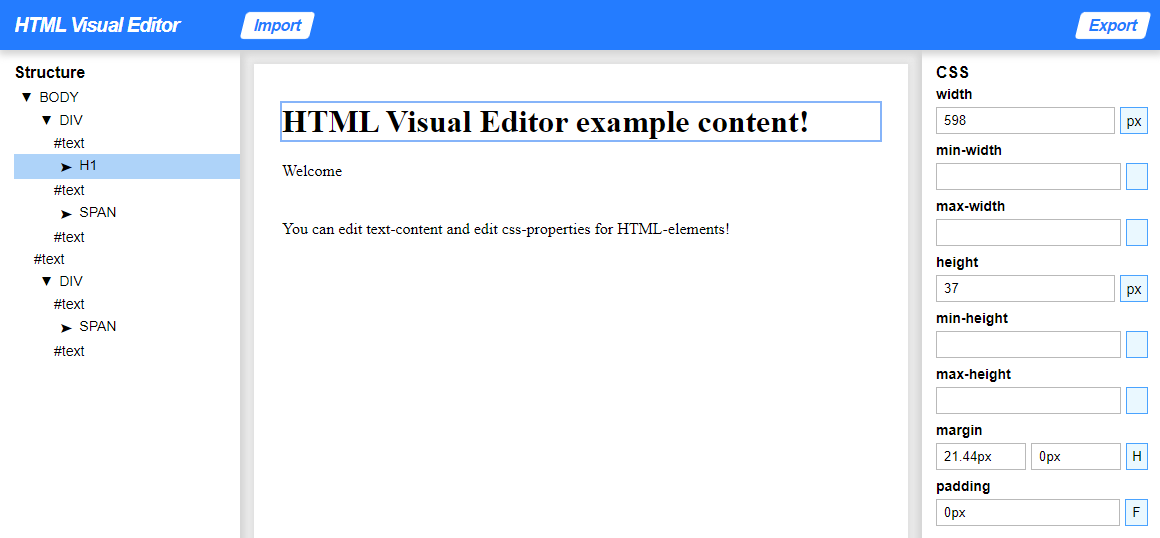
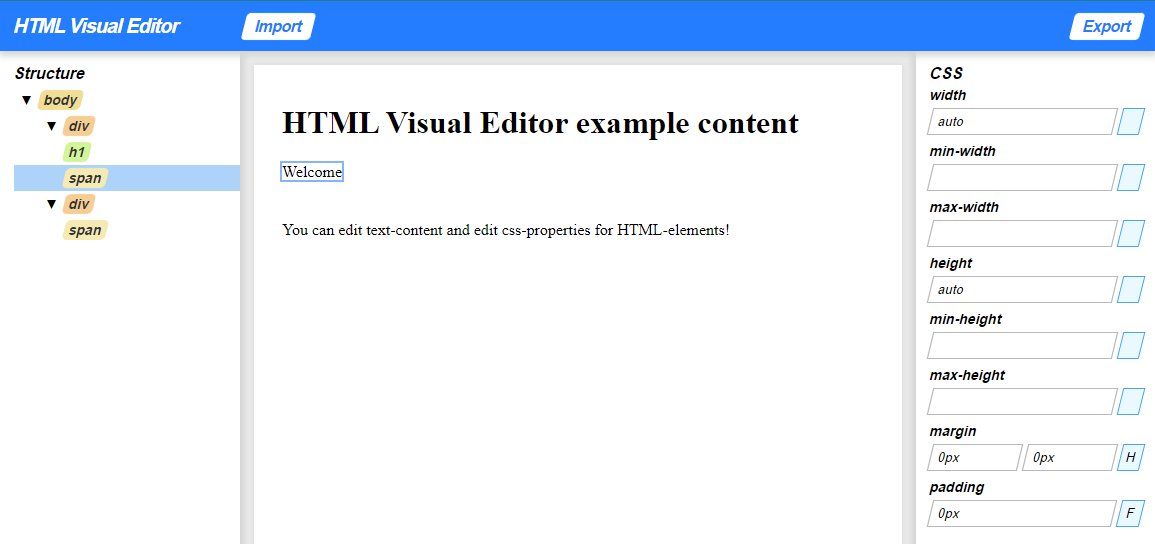
UI improvements

diff --git a/src/editor/components/columns/hier-view/hier/HierItem.tsx b/src/editor/components/columns/hier-view/hier/HierItem.tsx
@@ -3,9 +3,11 @@ import { Wrapper } from "./Wrapper";
 import { observer } from "mobx-react";
 import { TreeItem } from "../../../../stores/HierStore/HTMLTree";
 import { EditorContext } from "../../../../EditorContext/EditorContext";
-import { Name } from "../Name";
+import { Name, NameWrapper } from "../Name";
 import { CollapseButton } from "./CollapseButton";
 import { action } from "mobx";
+import { generateHSLInDiapason } from "../../../ui/utils/color/generateHSL";
+import { NodeNameRandomColor } from "../../../ui/utils/color/NodeNameRandomColor";
 
 
 type HierItemProps = {
@@ -35,25 +37,29 @@ export const HierItem: FC<HierItemProps> = observer(({item, setRef}) => {
     selectedStore.selectItem(item);
   }, []);
 
+  const hsl = NodeNameRandomColor.get(item.nodeName);
+
   return (
     <Wrapper ref={ref => setRef(ref, item)}>
-      <Name level={item.level}
-            hovered={item.node === selectedStore.hoveredItem?.node}
-            onClick={onNameClick}
-            selected={item.node === selectedStore.selectedItem?.node}
-            onMouseEnter={onMouseEnter}
-            onMouseLeave={onMouseLeave}
-            title={item.name}
+      <NameWrapper level={item.level}
+                   hovered={item.node === selectedStore.hoveredItem?.node}
+                   onClick={onNameClick}
+                   selected={item.node === selectedStore.selectedItem?.node}
+                   onMouseEnter={onMouseEnter}
+                   onMouseLeave={onMouseLeave}
+                   title={item.name}
       >
         {!!item.childs.length && (
           <CollapseButton collapsed={item.collapsed}
                           onClick={toggleCollapse}
           />
         )}
-        <span className={"hier-item-name"}>
+        <Name className={"hier-item-name"}
+              hsl={hsl}
+        >
           {item.name}
-        </span>
-      </Name>
+        </Name>
+      </NameWrapper>
       {!item.collapsed && item.childs.map((item, index) => {
         return (
           <HierItem item={item}

diff --git a/src/editor/components/columns/hier-view/Name.tsx b/src/editor/components/columns/hier-view/Name.tsx
@@ -5,10 +5,15 @@ const getBgColor = (p: {selected: boolean, hovered: boolean}): string => {
   return p.selected ? "#aed3f9" : p.hovered ? "#cae4ff" : "transparent";
 };
 
-export const Name = styled.div<{level: number, selected: boolean, hovered: boolean}>`
-  //width: 100%;
+type NameProps = {
+  level: number,
+  selected: boolean,
+  hovered: boolean,
+};
+
+export const NameWrapper = styled.div<NameProps>`
   background-color: ${getBgColor};
-  padding: 3px 0 3px calc(20px * ${p => p.level});
+  padding: 3px 0 3px calc(25px * ${p => p.level});
   white-space: nowrap;
   display: inline-flex;
   width: 100%;
@@ -16,4 +21,14 @@ export const Name = styled.div<{level: number, selected: boolean, hovered: boole
   &:hover {
     background-color: #cae4ff;
   }
+`;
+
+export const Name = styled.span<{hsl: string}>`
+  transform: skewX(-14deg);
+  background-color: hsl(${p => p.hsl});
+  text-transform: lowercase;
+  color: #333333;
+  font-weight: bold;
+  padding: 2px 5px;
+  border-radius: 5px;
 `;

diff --git a/src/editor/stores/HierStore/HTMLTree.ts b/src/editor/stores/HierStore/HTMLTree.ts
@@ -5,7 +5,8 @@ export type TreeItem = {
   node: Node;
   parent: Node;
   parentItem: TreeItem | null;
-  name?: string;
+  name: string;
+  nodeName: string;
   childs?: TreeItem[];
   collapsed: boolean;
   level: number;
@@ -32,7 +33,7 @@ export class HTMLTree {
       this.tree.parentItem = null;
     });
 
-    const walker = document.createTreeWalker(body, NodeFilter.SHOW_ALL);
+    const walker = document.createTreeWalker(body, NodeFilter.FILTER_ACCEPT);
     let nextNode = walker.nextNode();
 
     while (nextNode !== null) {
@@ -54,6 +55,7 @@ export class HTMLTree {
       node: node,
       parent: node.parentNode,
       name: node.nodeName,
+      nodeName: node.nodeName,
       childs: [],
       collapsed: true,
       level: this.getNodeLevel(node),

diff --git a/src/editor/stores/CanvasStore/CanvasStore.ts b/src/editor/stores/CanvasStore/CanvasStore.ts
@@ -101,7 +101,7 @@ export class CanvasStore {
 
   onMouseOver(e: MouseEvent) {
     const item = this.editorStore.hierStore.tree.nodeToItemMap.get(e.target as Node);
-    this.editorStore.selectedStore.hoverItem(item);
+    item && this.editorStore.selectedStore.hoverItem(item);
   }
 
   onMouseOut(e: MouseEvent) {
@@ -112,7 +112,7 @@ export class CanvasStore {
     e.stopPropagation();
     this.editorStore.selectedStore.unselect();
     const item = this.editorStore.hierStore.tree.nodeToItemMap.get(e.target as Node);
-    this.editorStore.selectedStore.selectItem(item);
+    item && this.editorStore.selectedStore.selectItem(item);
   }
 
   setHTMLIntoBody(html: string): Promise<void> {

diff --git a/src/examples/example.html b/src/examples/example.html
@@ -1,3 +1,13 @@
+<!doctype html>
+<html lang="en">
+<head>
+  <meta charset="UTF-8">
+  <meta name="viewport"
+        content="width=device-width, user-scalable=no, initial-scale=1.0, maximum-scale=1.0, minimum-scale=1.0">
+  <meta http-equiv="X-UA-Compatible" content="ie=edge">
+  <title>HTML Visual Editor example content</title>
+</head>
+<body>
 <div style="padding: 10px 20px 30px">
   <h1>HTML Visual Editor example content</h1>
   <span>Welcome</span>
@@ -5,3 +15,5 @@
 <div style="padding: 10px 20px 30px">
   <span>You can edit text-content and edit css-properties for HTML-elements!</span>
 </div>
+</body>
+</html>

diff --git a/src/editor/components/ui/utils/color/generateHSL.ts b/src/editor/components/ui/utils/color/generateHSL.ts
@@ -1,0 +1,18 @@
+
+
+export type HSLDiapason = {
+  hue: [number, number];
+  saturation: [number, number];
+  lightness: [number, number];
+};
+
+const {round, random} = Math;
+
+export const generateHSLInDiapason = (diapason: HSLDiapason): string => {
+  const {hue, saturation, lightness} = diapason;
+  const randHue = hue[0] + round(random() * (hue[1] - hue[0]));
+  const randSaturation = saturation[0] + round(random() * (saturation[1] - saturation[0]));
+  const randLightness = lightness[0] + round(random() * (lightness[1] - lightness[0]));
+
+  return `${randHue}deg, ${randSaturation}%, ${randLightness}%`;
+};

diff --git a/src/editor/components/ui/utils/color/NodeNameRandomColor.ts b/src/editor/components/ui/utils/color/NodeNameRandomColor.ts
@@ -1,0 +1,22 @@
+import { generateHSLInDiapason, HSLDiapason } from "./generateHSL";
+
+
+export class NodeNameRandomColor {
+
+  static colorDiapason: HSLDiapason = {
+    hue: [0, 100],
+    saturation: [75, 85],
+    lightness: [75, 85]
+  };
+
+  static get(nodeName: string): string {
+    return localStorage.getItem(`rand-color-${nodeName}`) || NodeNameRandomColor.set(nodeName);
+  }
+
+  private static set(nodeName: string): string {
+    const generated = generateHSLInDiapason(NodeNameRandomColor.colorDiapason);
+    localStorage.setItem(`rand-color-${nodeName}`, generated);
+    return generated;
+  }
+
+}

diff --git a/src/editor/components/columns/hier-view/hier/CollapseButton.tsx b/src/editor/components/columns/hier-view/hier/CollapseButton.tsx
@@ -7,6 +7,10 @@ const Button = styled.button`
   cursor: pointer;
   background-color: transparent;
   border: 0;
+  width: 25px;
+  display: flex;
+  align-items: center;
+  justify-content: center;
 `;
 
 export const CollapseButton = observer(({collapsed, onClick}) => {

diff --git a/src/editor/components/header/Logo.ts b/src/editor/components/header/Logo.ts
@@ -4,9 +4,9 @@ import styled from "styled-components";
 export const Logo = styled.span`
   color: #FFFFFF;
   font-weight: bold;
-  font-style: italic;
   font-size: 20px;
   letter-spacing: -1px;
   user-select: none;
   flex-shrink: 0;
+  transform: skewX(-14deg);
 `;

diff --git a/src/editor/components/columns/properties-view/Controls/controls/base/SwitchButton.tsx b/src/editor/components/columns/properties-view/Controls/controls/base/SwitchButton.tsx
@@ -12,6 +12,7 @@ const Wrapper = styled.button`
   background-color: #eaf8ff;
   margin-left: 5px;
   min-width: 22px;
+  transform: skewX(-14deg);
 `;
 
 export type SwitchVariant = {

diff --git a/src/editor/components/columns/properties-view/Controls/controls/base/ValueInput.tsx b/src/editor/components/columns/properties-view/Controls/controls/base/ValueInput.tsx
@@ -10,6 +10,7 @@ const Input = styled.input`
   outline: none;
   width: 100%;
   padding: 0 7px;
+  transform: skewX(-14deg);
   
   &:focus, &:active {
     border-color: #4aa3ff;

diff --git a/index.html b/index.html
@@ -2,7 +2,7 @@
 <html lang="en">
 <head>
   <meta charset="UTF-8">
-  <title>Title</title>
+  <title>HTML Visual Editor</title>
 </head>
 <body>
 <div id="root"></div>
